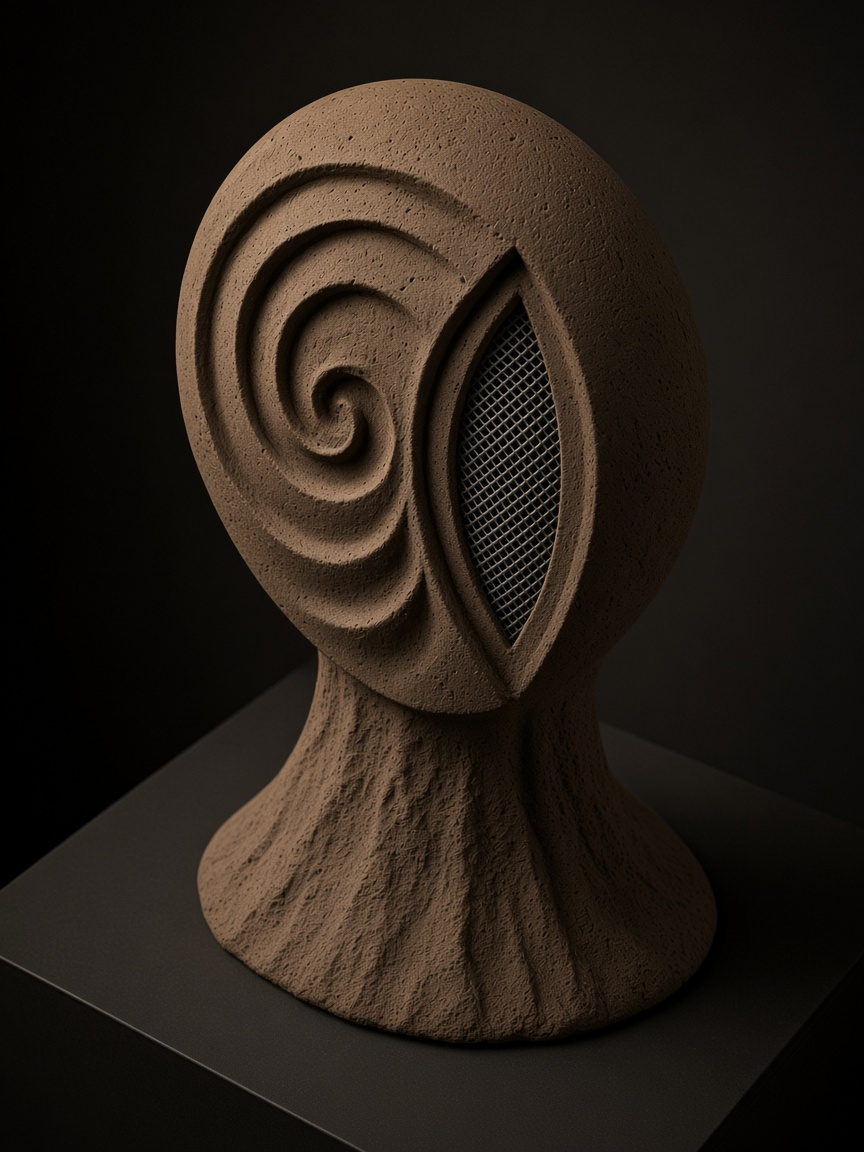
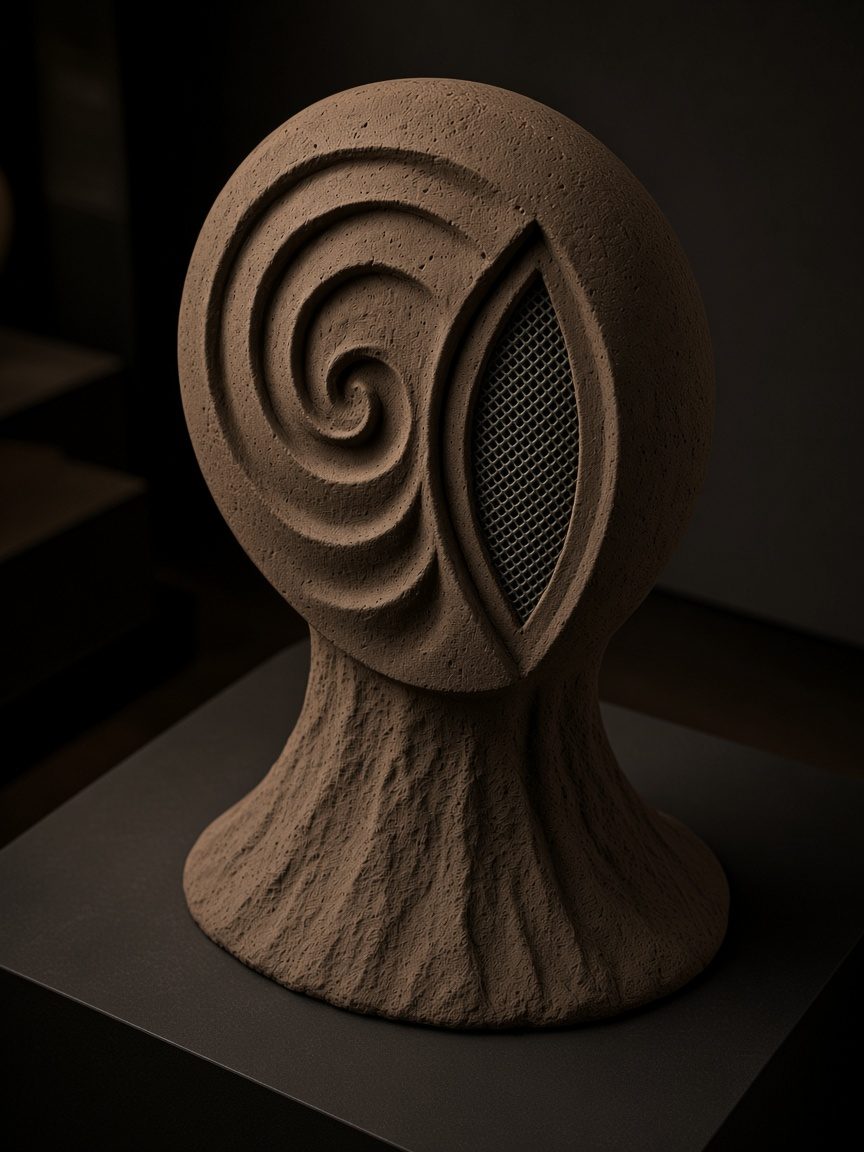
100 Generationen: S7 als volumetrischer Kopf in allen Dimensionen
Keine flache Scheibe mehr – Kopfkörper Vorne/Seite/Schräg, Gitter als Gesicht.

diff --git a/src/config/hundredGenerationEntwuerfe.ts b/src/config/hundredGenerationEntwuerfe.ts
@@ -231,7 +231,7 @@ export const HUNDRED_GENERATION_MODELLE: readonly HundredGenerationEntwurf[] = [
     note: 'zweiter Entwurf zur Spirale-Skizze',
     src: '/100-generation/aus-skizze-06b-spirale-kopf.png',
     sketchSrc: '/100-generation/skizzen/skizze-06-spirale.jpg',
-    formHint: 'Scheibe als Kopf – Gitter vorne ersetzt das Gesicht',
+    formHint: 'Kopf in allen Dimensionen – Gitter vorne ersetzt das Gesicht',
     gruppe: 'handskizze',
     ansichten: views(
       '/100-generation/aus-skizze-06b-spirale-kopf.png',

diff --git a/docs/DIALOG-STAND.md b/docs/DIALOG-STAND.md
@@ -1,12 +1,12 @@
 # Dialog-Stand
 
-**Was wir JETZT tun:** **100 Generationen** – S7 Kopf/Gitter-Gesicht (zweiter Entwurf zur Spirale-Skizze).
+**Was wir JETZT tun:** **100 Generationen** – S7 Kopf volumetrisch (alle Dimensionen).
 
-**Einordnung:** Scheibe = Kopf, Gitter vorne ersetzt das Gesicht. Neben S6 in der Entwurfsmappe.
+**Einordnung:** Georg: nicht flache Scheibe – echter Kopf-Körper; Gitter = Gesicht. Vorne/Seite/Schräg neu.
 
-**Nächster Schritt:** Entwurfsmappe → Handskizzen → **S7 · Kopf / Gitter-Gesicht** prüfen.
+**Nächster Schritt:** Entwurfsmappe → S7 prüfen (Seite/Schräg = Kopftiefe).
 
-**Letzter Stand:** 11.09.26 – S7 Kopf/Gitter-Gesicht angelegt. **Commit:** `664e1a62` ✅ **main**
+**Letzter Stand:** 11.09.26 – S7 Kopf volumetrisch neu.
 
 ---
 
